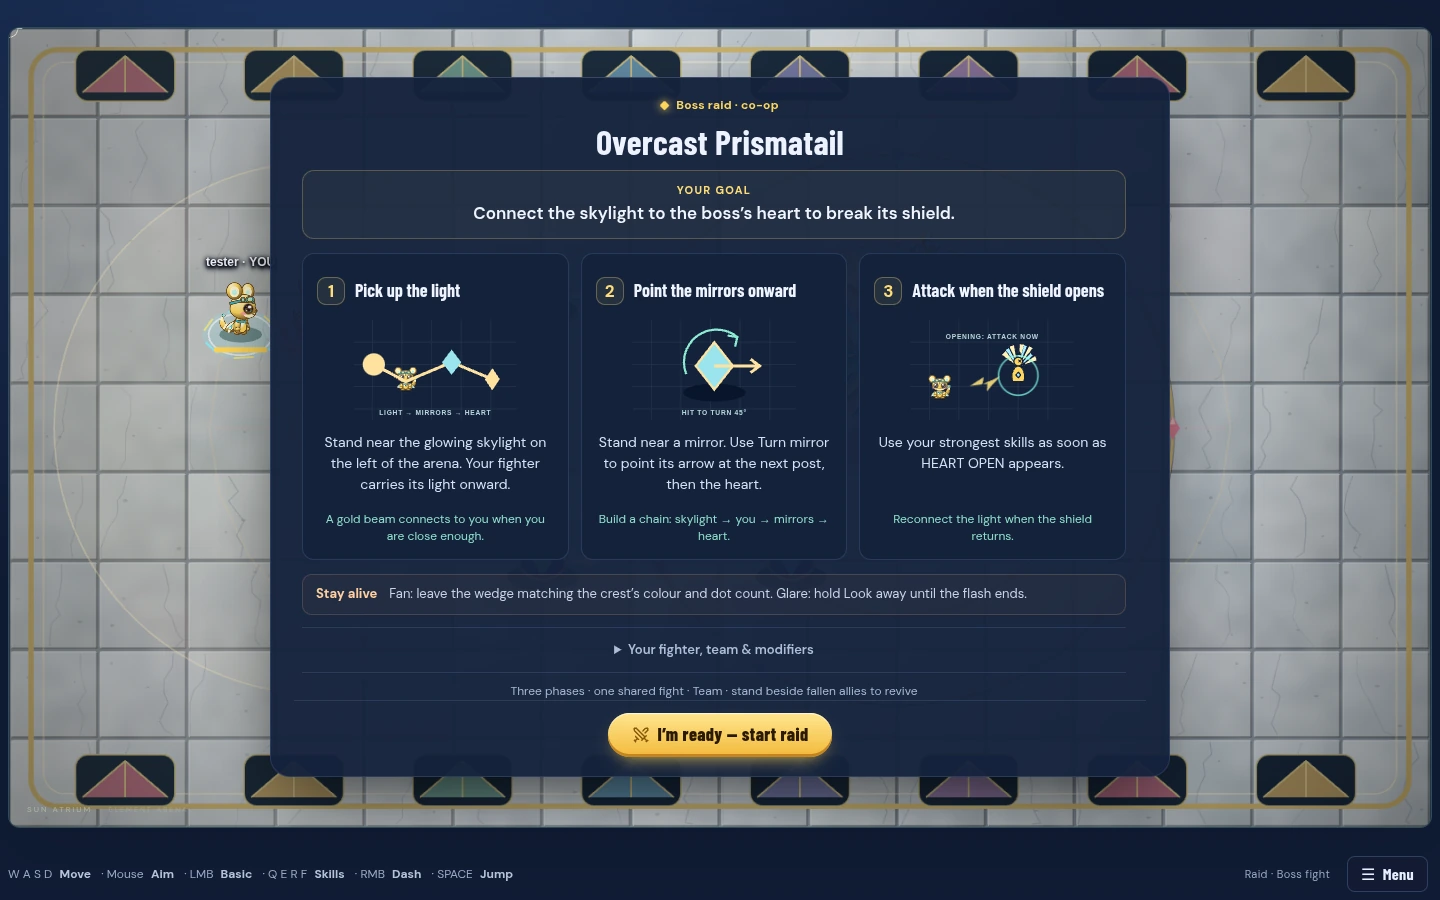
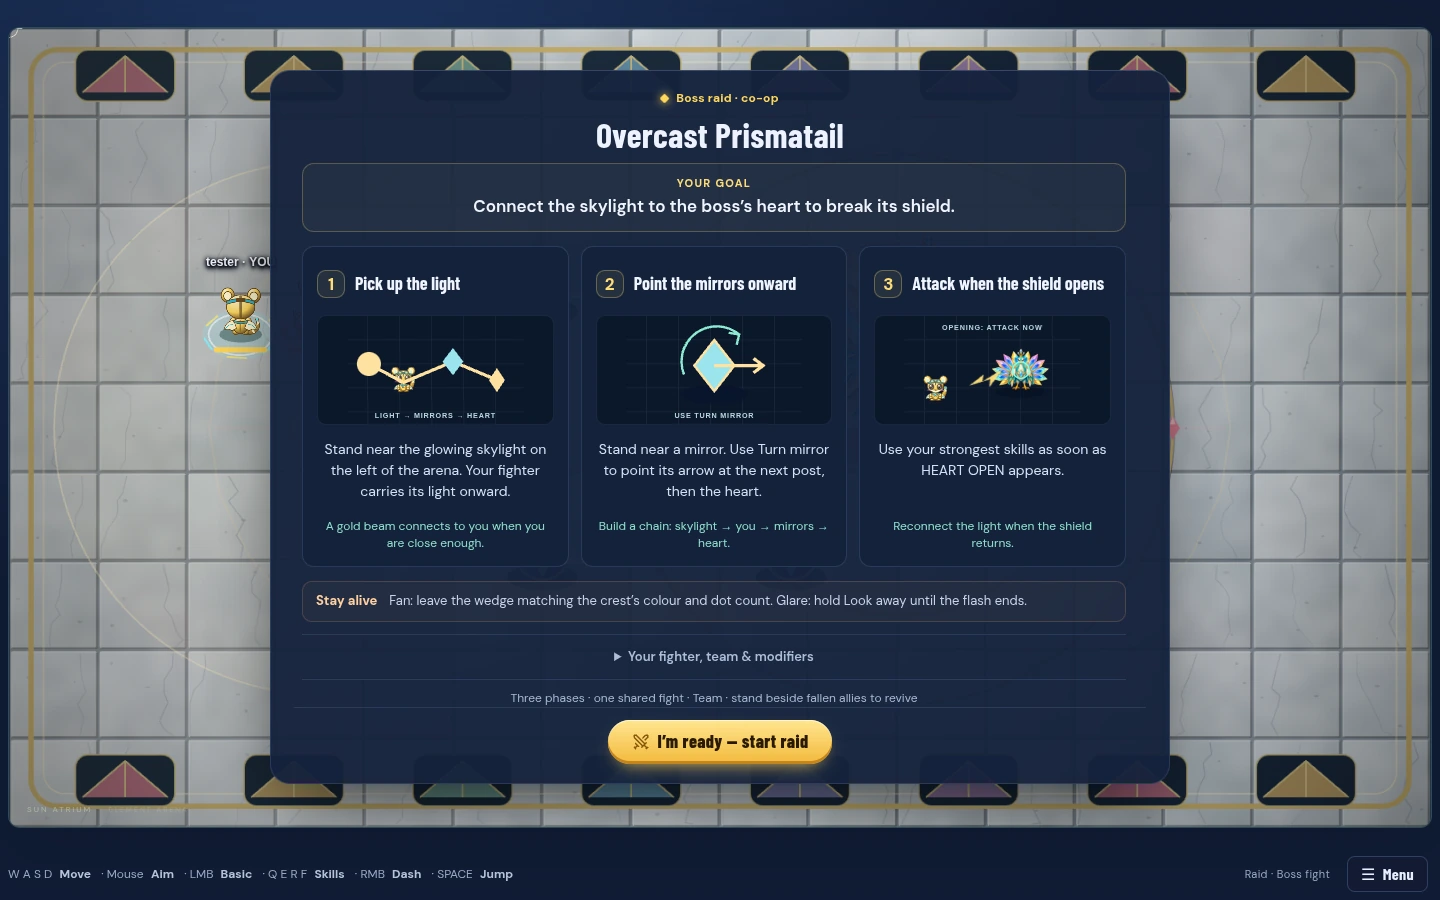
Illustrate raid briefing steps on mobile and desktop

diff --git a/apps/client/src/raid-guide-art.ts b/apps/client/src/raid-guide-art.ts
@@ -1,4 +1,6 @@
 import type { CharacterId } from "@arena/shared";
+import type { RaidBossId } from "../../../packages/shared/src/raid-roster";
+import { raidGuideSprite } from "./raid-guide-sprites";
 import { raidCrest } from "./raid-crests";
 import { fighterArt, scopeIds } from "./fighter-art";
 
@@ -35,7 +37,7 @@ export function raidGuideBossFor(boss: string, exposed = false) {
 export function raidGuideScene(
   kind: "opening" | "two-hearts" | "polarity-pair" | "twin-finish" | "braziers" | "ground-bird" | "heat-spread" | "relay" | "mirror" | "glare" | "charge" | "core" | "revive" | "strand" | "tide" | "prison" | "lantern" | "shadow" | "curse" | "dream" | "runes" | "quiet",
   character: CharacterId,
-  boss = "grumblecrag",
+  boss: RaidBossId = "grumblecrag",
 ) {
   const hero = (x: number, y: number, n: string) =>
     `<g transform="translate(${x} ${y})">${scopeIds(fighterArt(character), "raid-guide-" + kind + n).replace("<svg ", '<svg width="42" height="45" ')}</g>`;
@@ -43,18 +45,18 @@ export function raidGuideScene(
     '<path d="M0 30h220M0 60h220M0 90h220M0 120h220M25 0v135M65 0v135M105 0v135M145 0v135M185 0v135" stroke="#8ca0bb" opacity=".12"/>';
   let art = "";
   if (kind === "opening")
-    art = `${hero(18, 66, "open")}<g transform="translate(145 61) scale(.72)">${raidGuideBossFor(boss, true)}</g><path class="raid-guide-bolt" d="m67 89 19-12-2 10 24-11-18 20 1-10Z" fill="#ffe17b"/><circle class="raid-guide-core" cx="145" cy="75" r="25" fill="none" stroke="#82ffe7" stroke-width="2"/><text x="110" y="26">OPENING: ATTACK NOW</text>`;
+    art = `${hero(18, 66, "open")}<g transform="translate(145 74) scale(.85)">${raidGuideSprite(boss, true)}</g><path class="raid-guide-bolt" d="m67 87 18-14-2 9 26-16-17 23 1-10Z" fill="#ffe17b"/><text x="110" y="18">OPENING: ATTACK NOW</text>`;
   if (kind === "charge")
-    art = `<path d="M25 51h148v39H25Z" fill="#ff4059" opacity=".18"/><path d="M25 51h148M25 90h148" stroke="#ff4059" stroke-width="2"/><path class="raid-guide-arrows" d="m84 61 10 10-10 10m21-20 10 10-10 10m21-20 10 10-10 10" fill="none" stroke="#ff8c99" stroke-width="3"/><g class="raid-guide-charger"><g transform="translate(39 61) scale(.57)">${raidGuideBoss()}</g></g><path d="m143 44 22-3 9 6v39l-25 4-9-7Z" fill="#738887" stroke="#253c3b" stroke-width="2"/><path d="m149 49 9 8-5 9 7 8" stroke="#c9ddd2" fill="none"/>${hero(177, 57, "a")}<path d="M194 102q-4 17-32 16" stroke="#8beed2" stroke-width="2" stroke-dasharray="4 4" fill="none"/><text x="155" y="31">PILLAR</text>`;
+    art = `<path d="M25 51h148v39H25Z" fill="#ff4059" opacity=".18"/><path d="M25 51h148M25 90h148" stroke="#ff4059" stroke-width="2"/><path class="raid-guide-arrows" d="m84 61 10 10-10 10m21-20 10 10-10 10m21-20 10 10-10 10" fill="none" stroke="#ff8c99" stroke-width="3"/><g class="raid-guide-charger"><g transform="translate(39 61) scale(.57)">${raidGuideSprite("grumblecrag")}</g></g><path d="m143 44 22-3 9 6v39l-25 4-9-7Z" fill="#738887" stroke="#253c3b" stroke-width="2"/><path d="m149 49 9 8-5 9 7 8" stroke="#c9ddd2" fill="none"/>${hero(177, 57, "a")}<path d="M194 102q-4 17-32 16" stroke="#8beed2" stroke-width="2" stroke-dasharray="4 4" fill="none"/><text x="155" y="31">PILLAR</text>`;
   if (kind === "core")
-    art = `${hero(18, 66, "b")}<g transform="translate(145 61) scale(.72)">${raidGuideBoss(true)}</g><path class="raid-guide-bolt" d="m67 89 19-12-2 10 24-11-18 20 1-10Z" fill="#ffe17b"/><circle class="raid-guide-core" cx="145" cy="75" r="23" fill="none" stroke="#82ffe7" stroke-width="2"/><rect x="107" y="111" width="78" height="5" rx="2" fill="#203c4b"/><rect x="107" y="111" width="58" height="5" rx="2" fill="#82ffe7"/><text x="145" y="26">CORE OPEN</text>`;
+    art = `${hero(18, 66, "b")}<g transform="translate(145 74) scale(.85)">${raidGuideSprite("grumblecrag", true)}</g><path class="raid-guide-bolt" d="m67 87 18-14-2 9 26-16-17 23 1-10Z" fill="#ffe17b"/><rect x="107" y="111" width="78" height="5" rx="2" fill="#203c4b"/><rect x="107" y="111" width="58" height="5" rx="2" fill="#82ffe7"/><text x="145" y="26">CORE OPEN</text>`;
   if (kind === "revive")
     art = `<ellipse cx="144" cy="85" rx="42" ry="27" fill="#82ffe7" opacity=".09"/><ellipse cx="144" cy="85" rx="42" ry="27" stroke="#82ffe7" stroke-width="2" fill="none"/>${hero(61, 55, "c")}<g transform="translate(150 91) rotate(75)">${hero(-21, -35, "d")}</g><path class="raid-guide-revive" d="M113 88q30-35 59-6" fill="none" stroke="#a7ffb2" stroke-width="4" stroke-linecap="round"/><path d="M145 48v14m-7-7h14" stroke="#a7ffb2" stroke-width="3"/><text x="124" y="119">REVIVING</text>`;
   const island = (x: number, y: number) =>
     `<ellipse cx="${x}" cy="${y}" rx="34" ry="20" fill="#f2fbfa" opacity=".6"/><ellipse cx="${x}" cy="${y}" rx="30" ry="17" fill="#e2c88f" stroke="#c9a86a" stroke-width="2"/>`;
   const water = '<rect width="220" height="135" fill="#1f8fa6" opacity=".35"/>';
   if (kind === "strand")
-    art = `${water}${island(150, 82)}<g transform="translate(150 70) scale(.55)">${raidGuideTidewyrm(true)}</g><circle cx="150" cy="82" r="26" fill="none" stroke="#7fe9ff" stroke-width="2" stroke-dasharray="4 4"/>${hero(44, 62, "s")}<path d="M90 90q24 12 38 0" stroke="#8beed2" stroke-width="2" stroke-dasharray="4 4" fill="none"/><text x="150" y="28">STRANDED</text>`;
+    art = `${water}${island(150, 82)}<g transform="translate(150 70) scale(.55)">${raidGuideSprite("tidewyrm", true)}</g><circle cx="150" cy="82" r="26" fill="none" stroke="#7fe9ff" stroke-width="2" stroke-dasharray="4 4"/>${hero(44, 62, "s")}<path d="M90 90q24 12 38 0" stroke="#8beed2" stroke-width="2" stroke-dasharray="4 4" fill="none"/><text x="150" y="28">STRANDED</text>`;
   if (kind === "tide")
     art = `${water}<rect width="220" height="135" fill="#7fe9ff" opacity=".15"/>${island(110, 86)}${hero(66, 50, "t1")}${hero(110, 50, "t2")}<circle cx="99" cy="44" r="6" fill="#ffd65b"/><circle cx="121" cy="44" r="6" fill="#ffd65b"/><text x="110" y="28">TWO PER ISLAND</text>`;
   if (kind === "prison")
@@ -66,22 +68,22 @@ export function raidGuideScene(
   if (kind === "lantern")
     art = `${night}${post(150, 52, false)}${hero(40, 62, "l")}<path class="raid-guide-bolt" d="m92 82 22-8-6 8 16-4-18 12 4-8Z" fill="#ffe17b"/><circle cx="143" cy="22" r="5" fill="#ffd65b"/><circle cx="157" cy="22" r="5" fill="#0c1b32" stroke="#ffd65b" stroke-width="2"/><text x="150" y="128">TWO HITS</text>`;
   if (kind === "shadow")
-    art = `${night}<ellipse cx="110" cy="96" rx="96" ry="30" fill="#ffd27a" opacity=".22"/>${post(110, 40, true)}<g transform="translate(58 70) scale(.5)">${raidGuideGloomshade(false, true)}</g><g transform="translate(166 70) scale(.5)" opacity=".9">${raidGuideGloomshade(false, false)}</g><circle cx="58" cy="30" r="9" fill="none" stroke="#ffd65b" stroke-width="3"/><path d="M160 24l12 12m0-12-12 12" stroke="#ff4059" stroke-width="3"/><text x="110" y="128">SHADOW = REAL</text>`;
+    art = `${night}<ellipse cx="110" cy="96" rx="96" ry="30" fill="#ffd27a" opacity=".22"/>${post(110, 40, true)}<g transform="translate(58 70) scale(.5)">${raidGuideSprite("gloomshade", false, true)}</g><g transform="translate(166 70) scale(.5)" opacity=".9">${raidGuideSprite("gloomshade", false, false)}</g><circle cx="58" cy="30" r="9" fill="none" stroke="#ffd65b" stroke-width="3"/><path d="M160 24l12 12m0-12-12 12" stroke="#ff4059" stroke-width="3"/><text x="110" y="128">SHADOW = REAL</text>`;
   if (kind === "curse")
-    art = `${night}<circle cx="64" cy="80" r="44" fill="#b07bff" opacity=".1" stroke="#b07bff" stroke-width="2" stroke-dasharray="5 5"/>${hero(43, 57, "c1")}${wisp(40, 60)}${wisp(88, 66)}${wisp(64, 50)}${hero(152, 57, "c2")}<path d="M112 80h26m-8-7 8 7-8 7" stroke="#8beed2" stroke-width="3" fill="none"/><text x="110" y="128">SPREAD OUT</text>`;
+    art = `${night}<circle cx="160" cy="82" r="43" fill="#ffe9a1" fill-opacity=".2"/>${post(187, 46, true)}${hero(20, 57, "c1")}${wisp(23, 54)}${wisp(67, 58)}${wisp(44, 44)}${hero(127, 57, "c2")}<path d="M79 80h29m-8-7 8 7-8 7" stroke="#8beed2" stroke-width="3" fill="none"/><path d="m144 44 5 5 10-12" stroke="#8beed2" stroke-width="3" fill="none"/><text x="110" y="128">STAY IN LIGHT TO CLEANSE</text>`;
 
-  if (kind === "dream") art = `<g transform="translate(156 77) scale(.65)">${raidGuideSomnara()}</g>${hero(38, 64, "dream")}<rect x="25" y="26" width="100" height="28" rx="8" fill="#121c36" stroke="#c9a3ff"/><circle cx="43" cy="40" r="7" fill="none" stroke="#92efdb" stroke-width="2"/><path d="m70 32 3 5 6 1-4 4 1 6-6-3-5 3 1-6-4-4 6-1Z" fill="#ffdf8d"/><path d="M98 33a8 8 0 1 0 7 11 9 9 0 0 1-7-11Z" fill="#d1b2ff"/><text x="110" y="128">ONLY YOUR DREAMER SEES</text>`;
+  if (kind === "dream") art = `<g transform="translate(156 77) scale(.65)">${raidGuideSprite("somnara")}</g>${hero(38, 64, "dream")}<rect x="25" y="26" width="100" height="28" rx="8" fill="#121c36" stroke="#c9a3ff"/><circle cx="43" cy="40" r="7" fill="none" stroke="#92efdb" stroke-width="2"/><path d="m70 32 3 5 6 1-4 4 1 6-6-3-5 3 1-6-4-4 6-1Z" fill="#ffdf8d"/><path d="M98 33a8 8 0 1 0 7 11 9 9 0 0 1-7-11Z" fill="#d1b2ff"/><text x="110" y="128">ONLY YOUR DREAMER SEES</text>`;
   if (kind === "runes") art = `<circle cx="48" cy="74" r="25" fill="#92efdb" fill-opacity=".13" stroke="#92efdb" stroke-width="2"/><circle cx="48" cy="74" r="10" fill="none" stroke="#92efdb" stroke-width="3"/><circle cx="158" cy="74" r="25" fill="#ffdf8d" fill-opacity=".13" stroke="#ffdf8d" stroke-width="2"/><path d="m158 60 4 8 10 2-7 6 1 10-8-5-8 5 1-10-7-6 10-2Z" fill="#ffdf8d"/><path d="M82 74h40m-8-6 8 6-8 6" fill="none" stroke="#e4d6ff" stroke-width="3"/><text x="110" y="128">ENTER EACH PAD IN ORDER</text>`;
   if (kind === "quiet") art = `<rect x="10" y="20" width="200" height="88" rx="12" fill="#ff647f" opacity=".15"/><ellipse cx="123" cy="76" rx="54" ry="32" fill="#92efdb" fill-opacity=".2" stroke="#92efdb" stroke-width="3"/>${hero(98, 40, "quiet")}<path d="M47 73h29m-8-7 8 7-8 7" fill="none" stroke="#92efdb" stroke-width="3"/><text x="110" y="128">FOLLOW THE QUIET ZONE</text>`;
   if (kind === "relay") art = `<circle cx="27" cy="60" r="15" fill="#ffe2a0"/>${hero(49, 55, "relay")}<path d="M27 60 70 83 132 57 187 80" fill="none" stroke="#ffe2a0" stroke-width="4"/><path d="m132 40 13 17-13 17-13-17Z" fill="#9ae4ee"/><path d="m187 65 10 15-10 15-10-15Z" fill="#ffe2a0"/><text x="110" y="128">LIGHT → MIRRORS → HEART</text>`;
-  if (kind === "mirror") art = `<ellipse cx="110" cy="98" rx="42" ry="12" fill="#08152b"/><path d="m110 30 25 32-25 32-25-32Z" fill="#9ae4ee" stroke="#ffe2a0" stroke-width="3"/><path d="M110 62h61m-12-9 12 9-12 9" stroke="#ffe2a0" stroke-width="4" fill="none"/><path d="M72 73a44 44 0 0 1 69-50m-13-2 13 2-3 13" stroke="#8cebd1" stroke-width="3" fill="none"/><text x="110" y="128">HIT TO TURN 45°</text>`;
+  if (kind === "mirror") art = `<ellipse cx="110" cy="98" rx="42" ry="12" fill="#08152b"/><path d="m110 30 25 32-25 32-25-32Z" fill="#9ae4ee" stroke="#ffe2a0" stroke-width="3"/><path d="M110 62h61m-12-9 12 9-12 9" stroke="#ffe2a0" stroke-width="4" fill="none"/><path d="M72 73a44 44 0 0 1 69-50m-13-2 13 2-3 13" stroke="#8cebd1" stroke-width="3" fill="none"/><text x="110" y="128">USE TURN MIRROR</text>`;
   if (kind === "glare") art = `<path d="M70 43q40-35 80 0-40 35-80 0Z" fill="#ffe2a0" fill-opacity=".2" stroke="#ffe2a0" stroke-width="3"/><circle cx="110" cy="43" r="11" fill="#ffe2a0"/>${hero(89, 65, "glare")}<path d="M111 90v21m-7-8 7 8 7-8" fill="none" stroke="#8cebd1" stroke-width="3"/><text x="110" y="128">TURN AWAY FROM GLARE</text>`;
-  if(kind === "braziers") art = `<path d="M110 30 45 100h130Z" fill="none" stroke="#ffcf91" stroke-width="2" stroke-dasharray="5 4"/>${[[110,30],[45,100],[175,100]].map(([x,y])=>`<circle cx="${x}" cy="${y}" r="18" fill="#ffad6c" fill-opacity=".2" stroke="#ffcf91"/><path d="M${x-8} ${y+3}q-4-8 8-19-2 8 6 9 8 12-14 10Z" fill="#ffcf91"/>`).join("")}<text x="110" y="128">ALL THREE TOGETHER</text>`;
-  if(kind === "ground-bird") art = `<g transform="translate(65 20) scale(.8)">${raidGuideBossFor("emberwing")}</g><path d="M60 58v42m-8-9 8 9 8-9" stroke="#ffcf91" stroke-width="3" fill="none"/>${hero(151,65,"fire")}<text x="110" y="128">GROUND IT · STRIKE THE HEART</text>`;
+  if(kind === "braziers") art = `<path d="M110 30 45 100h130Z" fill="none" stroke="#ffcf91" stroke-width="2" stroke-dasharray="5 4"/>${[[110,30],[45,100],[175,100]].map(([x,y])=>`<circle cx="${x}" cy="${y}" r="18" fill="#ffad6c" fill-opacity=".2" stroke="#ffcf91"/><path d="M${x-8} ${y+3}q-4-8 8-19-2 8 6 9 8 12-14 10Z" fill="#ffcf91"/>`).join("")}${hero(24,60,"brazier")}<text x="110" y="128">STAND INSIDE · 1.5s</text>`;
+  if(kind === "ground-bird") art = `<g transform="translate(65 52) scale(.75)">${raidGuideSprite("emberwing")}</g><path d="M110 42v50m-8-9 8 9 8-9" stroke="#ffcf91" stroke-width="3" fill="none"/>${hero(151,65,"fire")}<text x="110" y="128">ALL THREE LIT → GROUNDED</text>`;
   if(kind === "heat-spread") art = `<circle cx="57" cy="72" r="35" fill="#ff688c" fill-opacity=".12" stroke="#ff688c"/>${hero(36,45,"mark1")}${hero(150,45,"mark2")}<path d="M103 73h32m-8-7 8 7-8 7" fill="none" stroke="#8be7d0" stroke-width="3"/><text x="110" y="128">SPREAD BEFORE IT BURSTS</text>`;
-  if(kind === "two-hearts") art = `<g transform="translate(110 60) scale(.9)">${raidGuideBossFor("storm-twins")}</g><rect x="29" y="100" width="68" height="7" rx="3" fill="#ffe18b"/><rect x="123" y="100" width="68" height="7" rx="3" fill="#8edfff"/><text x="110" y="128">TWO SEPARATE HEALTH BARS</text>`;
+  if(kind === "two-hearts") art = `<g transform="translate(110 60) scale(.9)">${raidGuideSprite("storm-twins")}</g><rect x="29" y="100" width="68" height="7" rx="3" fill="#ffe18b"/><rect x="123" y="100" width="68" height="7" rx="3" fill="#8edfff"/><text x="110" y="128">TWO SEPARATE HEALTH BARS</text>`;
   if(kind === "polarity-pair") art = `${hero(42,58,"plus")}${hero(133,58,"minus")}<circle cx="63" cy="42" r="15" fill="#ffe18b" fill-opacity=".15" stroke="#ffe18b"/><path d="M55 42h16m-8-8v16" stroke="#ffe18b" stroke-width="3"/><circle cx="154" cy="42" r="15" fill="#8edfff" fill-opacity=".15" stroke="#8edfff"/><path d="M146 42h16" stroke="#8edfff" stroke-width="3"/><path d="m89 77 10-5-10-5m36 10-10-5 10-5" fill="none" stroke="#8de8cf" stroke-width="3"/><text x="110" y="128">OPPOSITE SIGNS CANCEL</text>`;
-  if(kind === "twin-finish") art = `<g transform="translate(110 58) scale(.8)">${raidGuideBossFor("storm-twins")}</g><circle cx="110" cy="99" r="16" fill="#15243b" stroke="#ffce8c" stroke-width="2"/><path d="M110 89v11l8 4" stroke="#ffce8c" stroke-width="2" fill="none"/><text x="110" y="128">FINISH BEFORE IT REVIVES</text>`;
+  if(kind === "twin-finish") art = `<g transform="translate(110 58) scale(.8)">${raidGuideSprite("storm-twins")}</g><circle cx="110" cy="99" r="16" fill="#15243b" stroke="#ffce8c" stroke-width="2"/><path d="M110 89v11l8 4" stroke="#ffce8c" stroke-width="2" fill="none"/><text x="110" y="128">FINISH BEFORE IT REVIVES</text>`;
   // Center the complete two-character scene; center its caption on the card.
   if (kind === "revive") art = `<g transform="translate(-14 -8)">${art}</g>`;
   return `<svg class="raid-guide-scene" viewBox="0 0 220 135" aria-hidden="true">${floor}${art}</svg>`;

diff --git a/apps/client/src/raid-guide-sprites.ts b/apps/client/src/raid-guide-sprites.ts
@@ -1,0 +1,40 @@
+import type { RaidBossId } from "../../../packages/shared/src/raid-roster";
+import {
+  bossDirectionalFrame,
+  BOSS_DIRECTIONS,
+  type BossArtMode,
+} from "./boss-directions";
+import { BOSS_PAINTED_ART, BOSS_DIRECTION_ART } from "./boss-painted-rig";
+import base from "./art/raid-whole-frames.json";
+
+/** Reuse a complete battle pose in the diagram; native atlas has ample resolution
+ * for a small diagram. Clip one complete creature, never individual body parts. */
+export function raidGuideSprite(
+  boss: RaidBossId,
+  exposed = false,
+  shadow = true,
+) {
+  const draw = (mode: BossArtMode, x: number, width: number) => {
+    const f = bossDirectionalFrame(boss, mode, "front", 0),
+      [sx, sy, w, h] = f.pose.rect,
+      [aw, ah] =
+        f.atlas === "base" ? base[boss].size : BOSS_DIRECTIONS[boss].size,
+      url =
+        f.atlas === "base" ? BOSS_PAINTED_ART[boss] : BOSS_DIRECTION_ART[boss];
+    const scale = Math.min(width / w, 80 / h),
+      frameX = x + (width - w * scale) / 2,
+      frameY = 25 - h * scale,
+      cx = frameX + f.pose.core[0] * scale,
+      cy = frameY + f.pose.core[1] * scale;
+    // Match the viewport to the crop's aspect ratio. Letterboxing an atlas would
+    // expose neighboring poses in the otherwise empty space above the creature.
+    return `<svg x="${frameX}" y="${frameY}" width="${w * scale}" height="${h * scale}" viewBox="${sx} ${sy} ${w} ${h}" preserveAspectRatio="xMidYMax meet" overflow="hidden"><image data-guide-sprite="${boss}" href="${url}" width="${aw}" height="${ah}"/></svg>${exposed ? `<circle cx="${cx}" cy="${cy}" r="12" fill="#82ffe7" fill-opacity=".15" stroke="#82ffe7" stroke-width="2"/>` : ""}`;
+  };
+  const mode =
+    boss === "emberwing"
+      ? "ground"
+      : boss === "tidewyrm" && exposed
+        ? "stranded"
+        : "body";
+  return `<g data-guide-boss="${boss}">${shadow ? '<ellipse cy="25" rx="38" ry="8" fill="#061122" opacity=".65"/>' : ""}${boss === "storm-twins" ? draw("body", -50, 48) + draw("blue", 2, 48) : draw(mode, -45, 90)}</g>`;
+}

diff --git a/tests/visual/raid-briefing.spec.ts b/tests/visual/raid-briefing.spec.ts
@@ -49,6 +49,32 @@ for (const size of [
         await expect(page.locator(".raid-guide-steps > li")).toHaveCount(3);
         await expect(page.locator(".raid-guide-goal")).toBeVisible();
         await expect(page.locator("#raid-instructions")).toBeEnabled();
+        const diagrams = page.locator(
+          ".raid-guide-steps > li > .raid-guide-scene",
+        );
+        await expect(diagrams).toHaveCount(3);
+        for (const diagram of await diagrams.all()) {
+          await expect(diagram).toBeVisible();
+          const frame = await diagram.boundingBox();
+          expect(frame!.height).toBeGreaterThanOrEqual(60);
+          expect(frame!.width).toBeGreaterThan(100);
+        }
+        const sprites = page.locator(
+          ".raid-guide-scene image[data-guide-sprite]",
+        );
+        expect(await sprites.count()).toBeGreaterThan(0);
+        // Decode the same atlases used by SVG <image>, including cold-cache phones.
+        await sprites.evaluateAll(async (images) => {
+          await Promise.all(
+            [...new Set(images.map((el) => el.getAttribute("href")!))].map(
+              async (url) => {
+                const image = new Image();
+                image.src = url;
+                await image.decode();
+              },
+            ),
+          );
+        });
         const card = await box(page, ".raid-briefing"),
           start = await box(page, "#raid-instructions");
         expect(inside(start, card)).toBe(true);
@@ -57,7 +83,7 @@ for (const size of [
           .locator(".raid-guide-step-heading h3")
           .allTextContents())
           expect(title.length).toBeGreaterThan(5);
-        if (["prismatail", "emberwing"].includes(boss)) {
+        if (size.height === 900 || ["prismatail", "emberwing"].includes(boss)) {
           await page.locator(".raid-briefing").evaluate(async (el) => {
             await Promise.all(
               el.getAnimations().map((a) => a.finished.catch(() => {})),

diff --git a/apps/client/src/style.css b/apps/client/src/style.css
@@ -21780,8 +21780,13 @@ body.battle-active.court-view #game canvas {
   text-transform: none;
 }
 .raid-briefing .raid-guide-steps .raid-guide-scene {
-  height: 100px;
-  margin: 6px 0;
+  display: block;
+  flex: 0 0 auto;
+  height: 110px;
+  margin: 8px 0;
+  border: 1px solid #8baee51c;
+  border-radius: 9px;
+  background: #0b172a;
 }
 .raid-guide-action {
   margin: 6px 0;
@@ -21861,8 +21866,8 @@ body.battle-active.court-view #game canvas {
     font-size: 16px;
   }
   .raid-briefing .raid-guide-steps .raid-guide-scene {
-    height: 60px;
-    margin-block: 3px;
+    height: 84px;
+    margin-block: 6px;
   }
   .raid-guide-action {
     font-size: 13px;
@@ -21873,9 +21878,9 @@ body.battle-active.court-view #game canvas {
     padding-top: 6px;
   }
 }
-@media (orientation: landscape) and (max-height: 480px) {
+@media (orientation: landscape) and (max-height: 340px) {
   .raid-briefing .raid-guide-steps .raid-guide-scene {
-    display: none;
+    height: 64px;
   }
 }
 @media (max-width: 580px) and (orientation: portrait) {

diff --git a/docs/mobile-input-and-raid-guides.md b/docs/mobile-input-and-raid-guides.md
@@ -21,9 +21,13 @@ Each of the seven raid briefings now leads with the fight's goal and three order
 actions, including a visible success cue. A separate survival line explains the
 main hazards. Champion tricks, team signals and the encounter modifier remain in
 an optional details section. Solo/team instructions differ where necessary. The
-ready action stays outside the native vertical scroller; short phone layouts omit
-the miniature diagrams so the instructions have room. Reading expanded details
-and scrolling survive ready-state updates.
+ready action stays outside the native vertical scroller. Every step keeps its
+miniature illustration on desktop and phones, including short Safari viewports.
+Boss diagrams reuse the complete battle artwork; arrows, target rings, mirrors,
+lantern light and floor pads explain where to stand and when to attack. The
+mirror caption names the actual Turn mirror action, and the curse illustration
+shows moving into lantern light to cleanse. Reading expanded details and scrolling
+survive ready-state updates.
 
 [Desktop guide](raid-guide-desktop.webp) · [Phone guide](raid-guide-mobile.webp)
 
@@ -32,5 +36,6 @@ control/over a disabled skill, missed terminal events, repeated gestures, held
 movement, simultaneous attack/skill/movement, held Look away, and trusted native
 touch after stale focus/menu changes. Chromium checks the actual battle input
 packets; WebKit checks control recovery and all seven briefing layouts. The guide
-layout is checked at desktop, phone landscape and Safari's short visible viewport.
+layout and decoded illustration assets are checked at desktop, phone landscape
+and Safari's short visible viewport.
 Unit tests, TypeScript, the production build and PWA verification also run.
